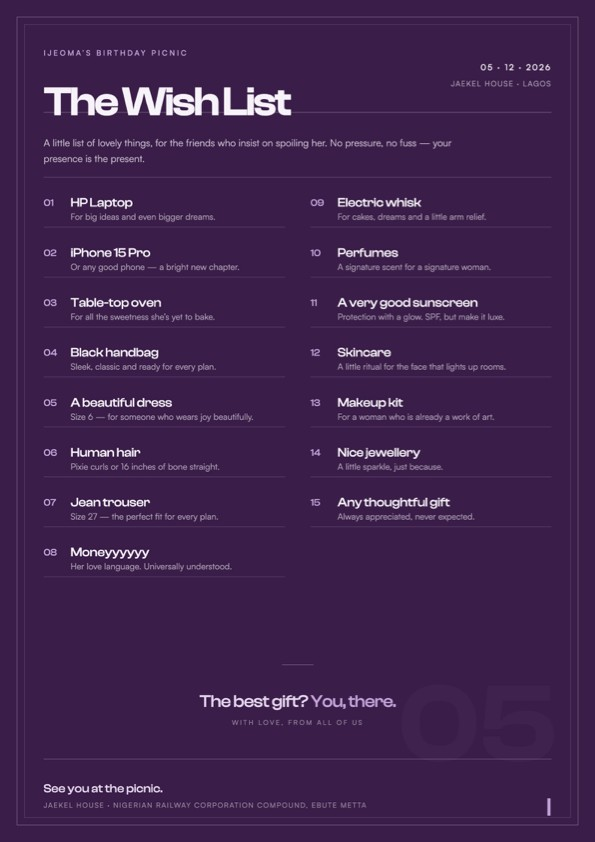
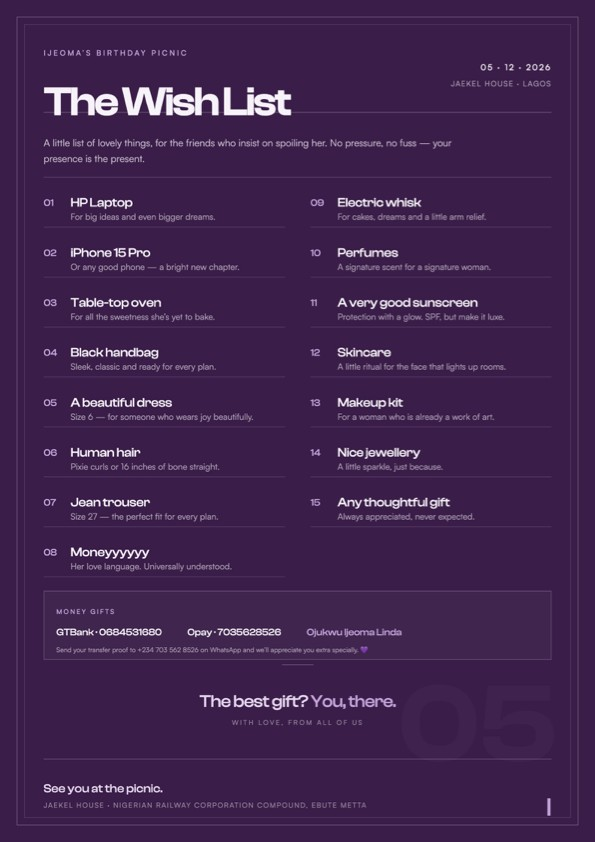
Add money gift accounts and transfer proof instructions

Changed region(s): [[0.0908, 0.7102, 0.6655, 0.8029]]

diff --git a/src/components/MoneyGifts.jsx b/src/components/MoneyGifts.jsx
@@ -1,0 +1,96 @@
+import { useState } from "react";
+import Icon from "./Icon";
+
+const ACCOUNT_NAME = "Ojukwu Ijeoma Linda";
+const ACCOUNTS = [
+  { key: "gtbank", bank: "GTBank", number: "0684531680" },
+  { key: "opay", bank: "Opay", number: "7035628526" },
+];
+const PROOF_NUMBER = "+234 703 562 8526";
+const PROOF_URL =
+  "https://wa.me/2347035628526?text=" +
+  encodeURIComponent("Hi! I just sent a birthday gift for Ijeoma 💜 Here’s my proof — thank you!");
+
+export default function MoneyGifts() {
+  const [copied, setCopied] = useState(null);
+
+  const copy = async (account) => {
+    try {
+      await navigator.clipboard.writeText(account.number);
+      setCopied(account.key);
+      window.setTimeout(() => setCopied(null), 1800);
+    } catch {
+      window.prompt(`Copy ${account.bank} account number:`, account.number);
+    }
+  };
+
+  return (
+    <div className="mt-10 rounded-sm border border-lilac/30 bg-paper/[0.045] p-5 md:p-6">
+      <div className="flex items-start gap-3">
+        <span className="grid h-10 w-10 shrink-0 place-items-center rounded-full border border-lilac/35 text-lilac">
+          <Icon name="gift" className="h-4 w-4" />
+        </span>
+        <div>
+          <p className="text-[0.8rem] font-medium uppercase tracking-[0.2em] text-lilac">
+            A little envelope of love
+          </p>
+          <p className="mt-1 max-w-[620px] text-[0.96rem] leading-[1.6] text-cream/85">
+            If you’d rather send a money gift, here’s where it can land.
+          </p>
+          <p className="mt-1 text-[0.9rem] text-cream/80">
+            Account name:{" "}
+            <span className="font-medium text-cream">{ACCOUNT_NAME}</span>
+          </p>
+        </div>
+      </div>
+
+      <div className="mt-5 grid gap-3 min-[521px]:grid-cols-2">
+        {ACCOUNTS.map((account) => (
+          <div
+            key={account.key}
+            className="flex items-center justify-between gap-3 rounded-sm border border-lilac/20 bg-plum-deep/25 px-4 py-3"
+          >
+            <div>
+              <p className="text-[0.72rem] font-medium uppercase tracking-[0.18em] text-lilac">
+                {account.bank}
+              </p>
+              <p className="mt-1 font-medium tabular-nums tracking-[0.08em] text-cream">
+                {account.number}
+              </p>
+            </div>
+            <button
+              type="button"
+              onClick={() => copy(account)}
+              className="shrink-0 border-b border-lilac/40 pb-0.5 text-[0.72rem] font-medium uppercase tracking-[0.12em] text-lilac transition hover:border-cream hover:text-cream"
+            >
+              {copied === account.key ? "Copied" : "Copy"}
+            </button>
+          </div>
+        ))}
+      </div>
+
+      <div className="mt-5 flex flex-col gap-4 border-t border-lilac/15 pt-4 text-[0.9rem] leading-[1.6] text-cream/80 min-[761px]:flex-row min-[761px]:items-center min-[761px]:justify-between">
+        <p className="max-w-[560px]">
+          Sent? WhatsApp your proof to{" "}
+          <a
+            href="https://wa.me/2347035628526"
+            target="_blank"
+            rel="noopener noreferrer"
+            className="whitespace-nowrap font-medium text-lilac-pale underline decoration-lilac/50 underline-offset-4 transition hover:text-cream"
+          >
+            {PROOF_NUMBER}
+          </a>{" "}
+          so we can appreciate you extra specially. A big birthday hug is waiting. 💜
+        </p>
+        <a
+          href={PROOF_URL}
+          target="_blank"
+          rel="noopener noreferrer"
+          className="inline-flex min-h-[2.8rem] w-fit shrink-0 items-center justify-center gap-2 rounded-full border border-lilac bg-lilac px-5 py-3 text-[0.7rem] font-medium uppercase tracking-[0.14em] text-plum-deep transition hover:bg-cream"
+        >
+          Send proof on WhatsApp <Icon name="arrow" className="h-4 w-4" />
+        </a>
+      </div>
+    </div>
+  );
+}

diff --git a/src/components/WishlistPdf.jsx b/src/components/WishlistPdf.jsx
@@ -195,6 +195,55 @@ const WishlistPdf = forwardRef(function WishlistPdf(_, ref) {
         </span>
         <div
           style={{
+            marginTop: "18px",
+            padding: "13px 16px",
+            border: "1px solid rgba(232,214,240,0.24)",
+            backgroundColor: "rgba(253,249,254,0.035)",
+          }}
+        >
+          <p
+            style={{
+              margin: 0,
+              fontSize: "9px",
+              fontWeight: 500,
+              letterSpacing: "0.2em",
+              textTransform: "uppercase",
+              color: "#cba3de",
+            }}
+          >
+            Money gifts
+          </p>
+          <div
+            style={{
+              display: "flex",
+              flexWrap: "wrap",
+              gap: "10px 34px",
+              marginTop: "8px",
+              fontFamily: "'Clash Display', Arial, sans-serif",
+              fontSize: "13px",
+              fontWeight: 500,
+              color: "#f8f3fa",
+            }}
+          >
+            <span>GTBank · 0684531680</span>
+            <span>Opay · 7035628526</span>
+            <span style={{ color: "#cba3de" }}>Ojukwu Ijeoma Linda</span>
+          </div>
+          <p
+            style={{
+              margin: "7px 0 0",
+              fontSize: "9px",
+              lineHeight: 1.45,
+              color: "rgba(248,243,250,0.58)",
+            }}
+          >
+            Send your transfer proof to +234 703 562 8526 on WhatsApp and we’ll
+            appreciate you extra specially. 💜
+          </p>
+        </div>
+
+        <div
+          style={{
             position: "absolute",
             left: "58px",
             right: "58px",

diff --git a/src/components/Wishlist.jsx b/src/components/Wishlist.jsx
@@ -1,5 +1,6 @@
 import { useEffect, useRef, useState } from "react";
 import Icon from "./Icon";
+import MoneyGifts from "./MoneyGifts";
 import Reveal from "./Reveal";
 import WishlistPdf from "./WishlistPdf";
 import { wishes } from "../data/wishes";
@@ -159,9 +160,11 @@ export default function Wishlist() {
         </div>
 
         <p className="mt-5 text-[0.88rem] leading-[1.6] text-cream/74">
-          Your checkmarks stay on this device. Download the PDF to share the list
-          with friends or family.
+          Your checkmarks stay on this device. Download the PDF above to share the
+          list with friends or family.
         </p>
+
+        <MoneyGifts />
       </div>
 
       <WishlistPdf ref={pdfRef} />

diff --git a/README.md b/README.md
@@ -28,12 +28,22 @@ Directions: **+234 703 562 8526** or **+234 705 718 8970**.
 - **Hero:** Clash Display name treatment, portrait, the date, time and place.
 - **Invitation:** compact card with dress code, what to bring and a live countdown.
 - **Her story:** three portrait cards in a short gallery.
-- **Wishlist:** 15 items in a compact two-column list, tap-to-save checkmarks and a **Download wishlist PDF** button.
+- **Wishlist:** 15 items in a compact two-column list, tap-to-save checkmarks, a **Download wishlist PDF** button and a money-gift card.
 - **Venue:** full official address, two directions phone numbers and a direct Google Maps link.
 - **RSVP:** short form, confirmation, native share and `.ics` calendar download.
 - **Extras:** floating music control, confetti, soft dust, scroll reveals, reduced-motion support.
 
-The main page is intentionally much shorter than the previous version: roughly **6,000px on desktop** and **7,700px on mobile**, with repeated copy removed.
+The main page is intentionally much shorter than the previous version: roughly **6,300px on desktop** and **8,300px on mobile**, with repeated copy removed.
+
+## Money gifts
+
+The wishlist section includes the account details supplied for money gifts:
+
+- **GTBank:** 0684531680
+- **Opay:** 7035628526
+- **Account name:** Ojukwu Ijeoma Linda
+
+After sending, guests are invited to WhatsApp their transfer proof to **+234 703 562 8526** so the family can appreciate them extra specially. The same details appear on the downloadable PDF.
 
 ## Music note
 
@@ -76,6 +86,7 @@ src/
     Story.jsx              Short photo gallery
     Wishlist.jsx           Compact list + PDF export
     WishlistPdf.jsx        Hidden A4 design captured to PDF
+    MoneyGifts.jsx         Account details, copy buttons and WhatsApp proof link
     Venue.jsx              Full address and directions
     Rsvp.jsx
     Footer.jsx
